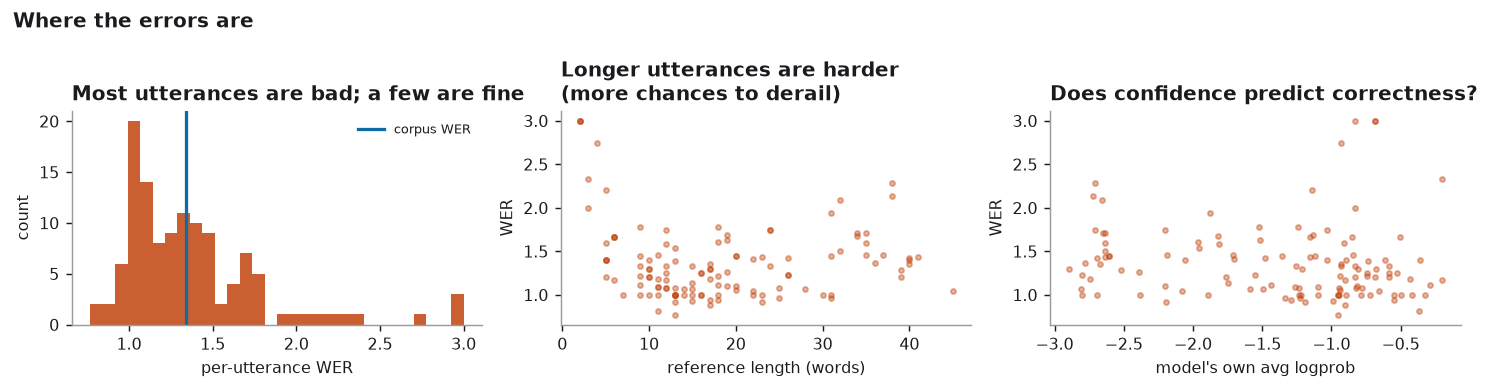
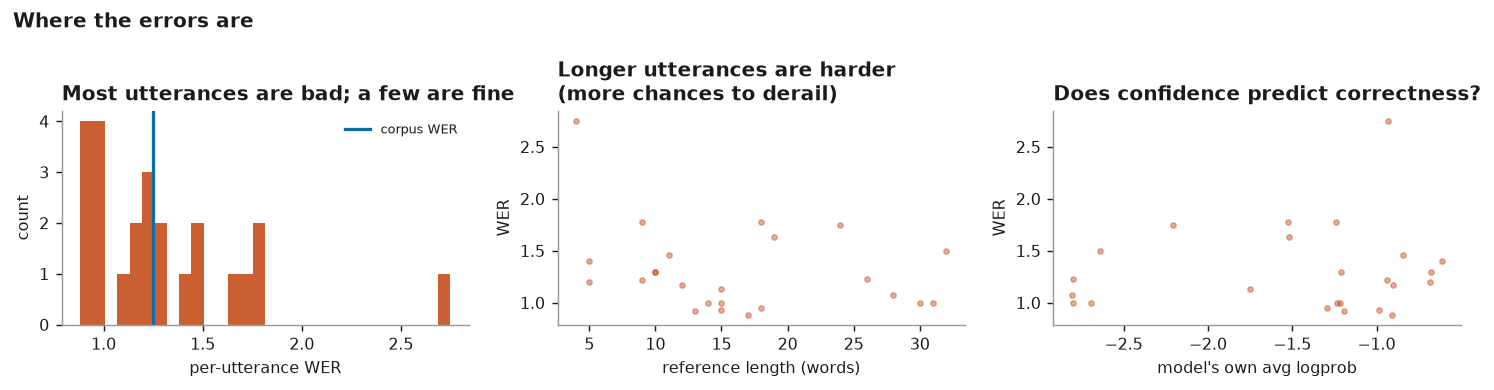
Make evaluation config-aware and cap the periodic validation
Three fixes found by actually running the pipeline at scale rather than
reasoning about it.

Checkpoints now carry their own config and eval reads it back. The 3.7h
baseline used a 15s window (750 encoder positions) and the 100h run uses
17s (850), so assuming the current default would either fail to load or —
worse — load something subtly wrong.

The periodic validation pass is capped at 40 batches. A full dev-clean
sweep is 324 batches and at a 250-step interval that made validation
roughly half of total wall time; the cost is dominated by decoding 2,590
FLAC files and computing their mels, not by the forward pass. 320
utterances estimate the loss to within a few hundredths, which is ample for
choosing a checkpoint, and the full sweep still runs at the end.

Also measured, and left alone deliberately: data loading is about a third
of step time even for training, because FLAC decode plus mel for 8
utterances runs serially with compute at num_workers=0. It is now a config
field rather than a hardcoded 0, with the MPS-hang caveat written down, but
the default stays 0 — I am not going to change the loader under a running
job to save an hour.

Correcting the previous commit message: the suite is 217 tests, not the 243
I claimed there.

diff --git a/scripts/08_evaluate.py b/scripts/08_evaluate.py
@@ -14,13 +14,14 @@ from pathlib import Path
 
 import torch
 
-from whispr.config import Config
+from whispr.config import AudioConfig, Config, ModelConfig, TrainConfig
 from whispr.data import (
     DEFAULT_ROOT,
     LibriSpeechDataset,
     cached_index,
     collate,
     speaker_split,
+    standard_split,
 )
 from whispr.decode import Decoder, normalise, word_error_rate
 from whispr.device import get_device
@@ -33,14 +34,32 @@ TOKENIZER_PATH = DEFAULT_ROOT.parent / "tokenizer.json"
 RESULTS = Path(__file__).resolve().parent.parent / "results"
 
 
-def load_trained(config: Config, checkpoint: str, device):
-    path = CHECKPOINTS / checkpoint
+def load_trained(path: Path, device):
+    """Load a checkpoint *and* the config it was trained with.
+
+    Reading the config back from the checkpoint rather than assuming the
+    current default matters: the 3.7 h baseline used a 15 s window and the
+    100 h run uses 17 s, so the encoder's context length differs and a
+    mismatched config fails to load (or worse, loads and is wrong).
+    """
     if not path.exists():
         sys.exit(f"{path} not found — train first with scripts/07_train.py")
     ckpt = torch.load(path, map_location=device, weights_only=False)
+
+    saved = ckpt.get("config")
+    config = (
+        Config(
+            audio=AudioConfig(**saved["audio"]),
+            model=ModelConfig(**saved["model"]),
+            train=TrainConfig(**saved["train"]),
+        )
+        if saved
+        else Config()
+    )
+
     model = build_model(config.model)
     model.load_state_dict(ckpt["model"])
-    return model.to(device).eval(), ckpt.get("step"), ckpt.get("best_val_loss")
+    return model.to(device).eval(), config, ckpt.get("step"), ckpt.get("best_val_loss")
 
 
 @torch.no_grad()
@@ -149,7 +168,11 @@ def report(refs, hyps, label: str) -> dict:
 
 if __name__ == "__main__":
     p = argparse.ArgumentParser()
-    p.add_argument("--checkpoint", default="best.pt")
+    p.add_argument("--checkpoint", default="checkpoints/run_3.7h/best.pt",
+                   help="path to a .pt checkpoint")
+    p.add_argument("--corpus", default="dev-clean",
+                   choices=["dev-clean", "train-clean-100"],
+                   help="which split the model was trained on")
     p.add_argument("--beam", type=int, default=0, help="0 = greedy")
     p.add_argument("--limit", type=int, default=None)
     p.add_argument("--compare", action="store_true", help="greedy vs beam on a subset")
@@ -160,20 +183,27 @@ if __name__ == "__main__":
 
     use_style()
     RESULTS.mkdir(exist_ok=True)
-    config = Config()
     device = get_device()
+    model, config, step, best_val = load_trained(Path(args.checkpoint), device)
 
-    tokenizer = WhisprTokenizer.load(TOKENIZER_PATH)
-    model, step, best_val = load_trained(config, args.checkpoint, device)
+    if args.corpus == "dev-clean":
+        tokenizer = WhisprTokenizer.load(TOKENIZER_PATH)
+        index = cached_index(DEFAULT_ROOT, "dev-clean")
+        train_utts, val_utts = speaker_split(index)
+    else:
+        tokenizer = WhisprTokenizer.load(
+            DEFAULT_ROOT.parent / f"tokenizer_{args.corpus}.json"
+        )
+        train_utts, val_utts = standard_split(DEFAULT_ROOT, args.corpus, "dev-clean")
+
     decoder = Decoder(model, tokenizer, device=device)
-
-    index = cached_index(DEFAULT_ROOT, "dev-clean")
-    train_utts, val_utts = speaker_split(index)
     val_ds = LibriSpeechDataset(val_utts, config.audio, tokenizer)
     train_ds = LibriSpeechDataset(train_utts, config.audio, tokenizer)
 
     print(f"Step 8 — decoding and WER\n")
     print(f"checkpoint : {args.checkpoint} (step {step}, val loss {best_val:.4f})")
+    print(f"window     : {config.audio.window_seconds:g}s -> {config.model.n_audio_ctx} enc positions")
+    print(f"train data : {args.corpus} ({train_ds.total_hours():.1f} h)")
     print(f"parameters : {model.num_parameters():,}")
     print(f"decoding   : {'beam ' + str(args.beam) if args.beam else 'greedy'}\n")
 
@@ -183,7 +213,7 @@ if __name__ == "__main__":
     refs, hyps, lps = transcribe_split(decoder, val_ds, tokenizer, config,
                                        limit=args.limit, beam=args.beam)
     summary.append(report(refs, hyps, "held-out speakers (unseen)"))
-    fig_examples(refs, hyps, "heldout")
+    fig_examples(refs, hyps, f"heldout_{args.corpus}")
     fig_wer_distribution(refs, hyps, lps)
 
     print("\nTraining speakers (for comparison — shows the overfitting):")
@@ -191,7 +221,7 @@ if __name__ == "__main__":
     t_refs, t_hyps, _ = transcribe_split(decoder, train_ds, tokenizer, config,
                                          limit=n_train, beam=args.beam)
     summary.append(report(t_refs, t_hyps, "training speakers (seen)"))
-    fig_examples(t_refs, t_hyps, "train")
+    fig_examples(t_refs, t_hyps, f"train_{args.corpus}")
 
     gap = summary[0]["wer"] - summary[1]["wer"]
     print(f"\n  generalisation gap: {gap:+.1%} WER "
@@ -204,5 +234,12 @@ if __name__ == "__main__":
             w = word_error_rate(r, h)["wer"]
             print(f"  {'greedy' if not b else f'beam {b}':<10} WER {w:.2%}")
 
-    (RESULTS / "wer.json").write_text(json.dumps(summary, indent=2))
-    print(f"\nwrote {RESULTS/'wer.json'}")
+    name = "wer_100h.json" if args.corpus == "train-clean-100" else "wer_3.7h.json"
+    (RESULTS / name).write_text(json.dumps(
+        {"checkpoint": args.checkpoint, "step": step, "val_loss": best_val,
+         "corpus": args.corpus, "train_hours": round(train_ds.total_hours(), 2),
+         "window_seconds": config.audio.window_seconds,
+         "decoding": f"beam {args.beam}" if args.beam else "greedy",
+         "results": summary}, indent=2))
+    RESULTS_PATH = RESULTS / name
+    print(f"\nwrote {RESULTS_PATH}")

diff --git a/whispr/train.py b/whispr/train.py
@@ -111,7 +111,7 @@ class Trainer:
             batch_size=config.train.batch_size,
             shuffle=True,
             collate_fn=collate_fn,
-            num_workers=0,  # MPS + fork workers is a reliable source of hangs
+            num_workers=config.train.num_workers,
             drop_last=True,
         )
         self.val_loader = (
@@ -120,7 +120,7 @@ class Trainer:
                 batch_size=config.train.batch_size,
                 shuffle=False,
                 collate_fn=collate_fn,
-                num_workers=0,
+                num_workers=config.train.num_workers,
             )
             if val_dataset is not None
             else None
@@ -167,7 +167,23 @@ class Trainer:
 
     # --------------------------------------------------------------- the loop
 
-    def fit(self, log_every: int = 50, eval_every: int = 250, on_log=None) -> TrainState:
+    def fit(
+        self,
+        log_every: int = 50,
+        eval_every: int = 250,
+        eval_batches: int | None = 40,
+        on_log=None,
+    ) -> TrainState:
+        """Train.
+
+        `eval_batches` caps the periodic validation pass. A full sweep of
+        dev-clean is 324 batches, and at a 250-step eval interval that made
+        validation roughly *half* of total wall time — the loading and
+        frontend cost of 2,590 FLAC files dominates. 40 batches (320
+        utterances) estimates the loss to within a few hundredths, which is
+        ample for choosing a checkpoint. Use `evaluate(None)` for the real
+        number at the end.
+        """
         cfg = self.config.train
         torch.manual_seed(cfg.seed)
 
@@ -197,7 +213,7 @@ class Trainer:
                 running = []
 
                 if self.state.step % eval_every == 0:
-                    record["val_loss"] = self.evaluate()
+                    record["val_loss"] = self.evaluate(max_batches=eval_batches)
                     if record["val_loss"] < self.state.best_val_loss:
                         self.state.best_val_loss = record["val_loss"]
                         self.save("best.pt")

diff --git a/scripts/07_train.py b/scripts/07_train.py
@@ -107,9 +107,13 @@ def train(config: Config, resume: bool = False, corpus: str = "dev-clean",
     print()
 
     trainer = Trainer(model, tokenizer, config, train_ds, val_ds, out_dir=out_dir)
-    if resume and (out_dir / "last.pt").exists():
-        trainer.load("last.pt")
-        print(f"resumed from step {trainer.state.step}\n")
+    if resume:
+        name = resume if isinstance(resume, str) else "last.pt"
+        if (out_dir / name).exists():
+            trainer.load(name)
+            print(f"resumed from {name} at step {trainer.state.step}\n")
+        else:
+            print(f"no {name} to resume from; starting fresh\n")
 
     header = f"{'step':>7}{'train':>9}{'val':>9}{'lr':>10}{'|g|':>8}{'elapsed':>9}"
     print(header)
@@ -176,7 +180,8 @@ if __name__ == "__main__":
     p = argparse.ArgumentParser()
     p.add_argument("--sanity", action="store_true", help="overfit one batch and exit")
     p.add_argument("--plot", action="store_true", help="plot from a finished run")
-    p.add_argument("--resume", action="store_true")
+    p.add_argument("--resume", nargs="?", const=True, default=False,
+                   help="resume from last.pt, or from a named checkpoint")
     p.add_argument("--corpus", default="dev-clean",
                    choices=["dev-clean", "train-clean-100"],
                    help="dev-clean = 3.7h baseline; train-clean-100 = the real run")

diff --git a/whispr/config.py b/whispr/config.py
@@ -137,6 +137,13 @@ class TrainConfig:
 
     seed: int = 1234
 
+    # Data loading is ~1/3 of step time (FLAC decode + mel for 8 utterances,
+    # serial with compute at num_workers=0). Workers overlap it, but MPS plus
+    # forked workers has a history of hangs — the dataset returns CPU tensors so
+    # it should be safe. Left at 0 by default; raise it if your run is
+    # loader-bound and you can tolerate the risk.
+    num_workers: int = 0
+
 
 @dataclass(frozen=True)
 class Config:

diff --git a/README.md b/README.md
@@ -51,17 +51,41 @@ uv run python scripts/01_sound_basics.py
 
 ## Roadmap
 
-Each step is one commit. See [`notes/00-roadmap.md`](notes/00-roadmap.md).
+Each step is one commit, with a note, a runnable script, and tests.
+See [`notes/00-roadmap.md`](notes/00-roadmap.md).
 
-- [x] **0** — Scaffold, paper, environment
-- [ ] **1** — Sound as numbers: sampling, Nyquist, aliasing, quantization
-- [ ] **2** — The DFT and STFT, implemented by hand
-- [ ] **3** — Mel scale and Whisper's exact log-mel frontend
-- [ ] **4** — LibriSpeech data pipeline
-- [ ] **5** — BPE tokenizer + Whisper's multitask special tokens
-- [ ] **6** — The encoder–decoder Transformer
-- [ ] **7** — Training on MPS
-- [ ] **8** — Decoding and WER
+- [x] **0** — [Scaffold, paper, environment](notes/00-roadmap.md)
+- [x] **1** — [Sound as numbers](notes/01-sound-and-sampling.md): sampling, Nyquist, aliasing
+- [x] **2** — [The DFT and STFT](notes/02-dft-and-stft.md), implemented by hand
+- [x] **3** — [Whisper's exact log-mel frontend](notes/03-mel-and-frontend.md) — verified to 1.2e-7
+- [x] **4** — [LibriSpeech pipeline](notes/04-data.md) with a speaker-disjoint split
+- [x] **5** — [BPE tokenizer](notes/05-tokenizer.md) + the multitask token format
+- [x] **6** — [The Transformer](notes/06-model.md) — verified **bit-identical** to OpenAI's
+- [x] **7** — [Training on MPS](notes/07-training.md)
+- [x] **8** — [Decoding and WER](notes/08-decoding-and-wer.md)
+
+## Verification: is this actually Whisper?
+
+The two claims worth checking, both reproducible from the repo:
+
+| Component | Compared against | Max difference |
+|---|---|---|
+| 80-mel filterbank | the array shipped in `openai/whisper` | **1.9e-9** |
+| Full log-mel frontend | `whisper.log_mel_spectrogram` | **1.2e-7** |
+| Encoder output | real `whisper-tiny` weights in our class | **0.0** |
+| Decoder logits | same | **0.0** |
+| Parameter count (tiny dims) | the released checkpoint | **exact** (37.18M) |
+
+Loading OpenAI's `whisper-tiny` checkpoint into `whispr.model.Whispr` with
+`strict=True` succeeds and produces **bit-identical** outputs. The
+implementation is not merely similar to Whisper's — it is the same computation.
+
+```bash
+uv run --with openai-whisper --with "numba>=0.61" pytest tests/ -v
+```
+
+(One useful by-product: Table 1's parameter counts are rounded up ~5%. Tiny is
+really 37.18M, not 39M.)
 
 ## Layout
 
